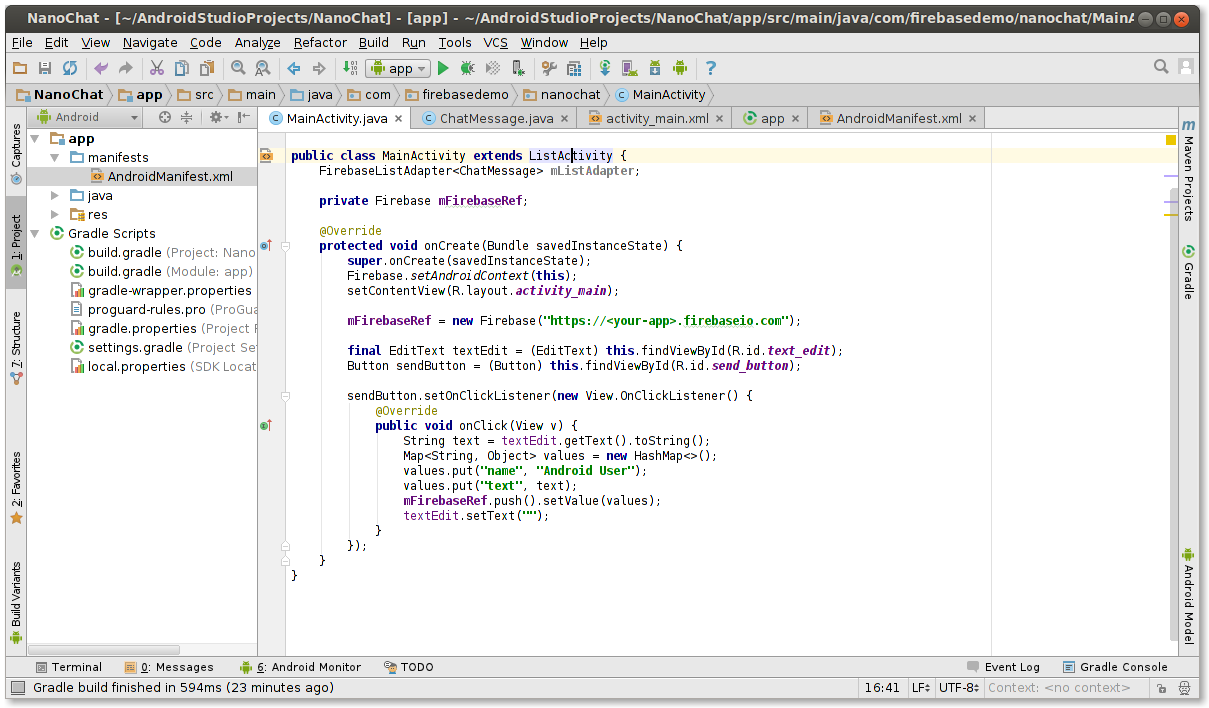
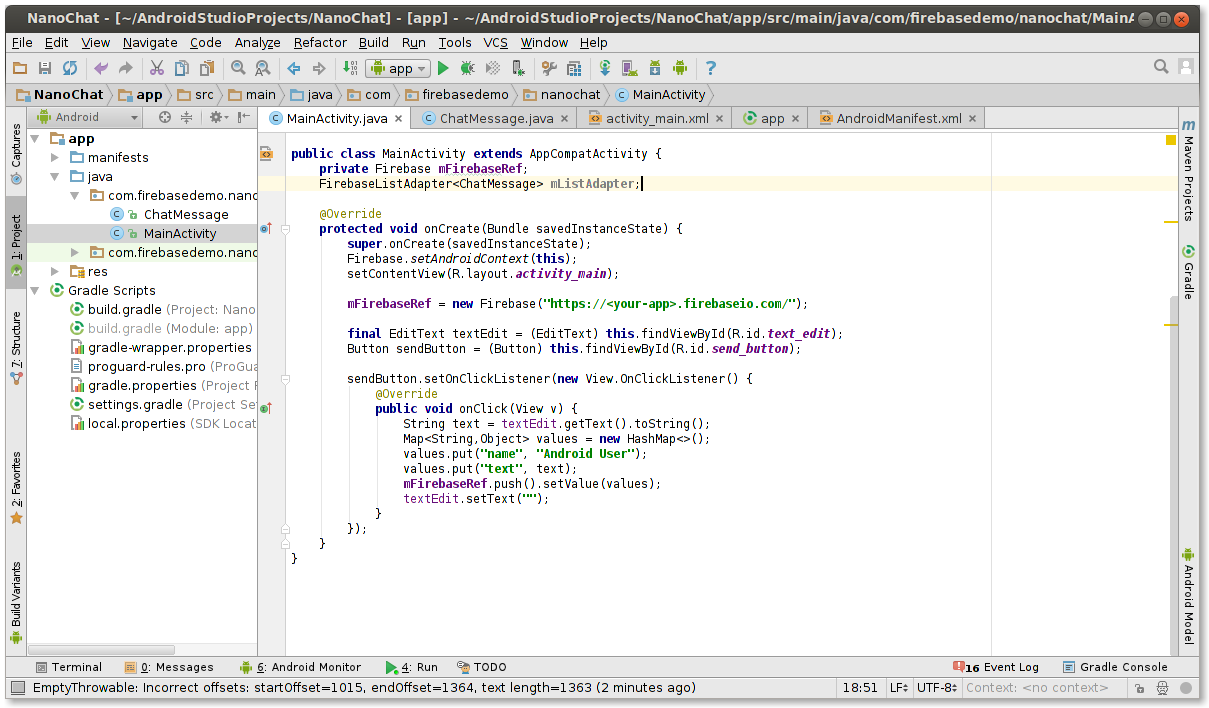
Codelab improvements

diff --git a/codelabs/chat/README.md b/codelabs/chat/README.md
@@ -2,8 +2,8 @@
 
 In this code lab you'll build a chat application for Android using Firebase and Android Studio.
 
-![Chat login](images/0_0.png)
-![Chat messages](images/0_1.png)
+<img alt="Chat login" src="images/0_0.png" height="600">
+<img alt="Chat messages" src="images/0_1.png" height="600">
 
 What you'll learn:
 
@@ -271,7 +271,7 @@ Warning: if you end up making this `ChatMessage` an inner class of another class
 
 With the layout for the message specified and their structure defined in a class, we need to make a space for them in the `main_activity.xml`
 
-Add a ListView with `android:id="@android:id/list"`` above the LinearLayout:
+Add a ListView with `android:id="@android:id/list"` above the LinearLayout:
 
 ```xml
 <ListView
@@ -285,18 +285,12 @@ This is the container that all messages will be added to: one message_layout for
 
 ![activity_main.xml with ListView](images/5_4.png)
 
-The `id` value is very important here, since Android's `ListActivity` uses it to find the `ListView`. So make sure to enter it exactly as specified: ``@android:id/list`.
-
-Make the `MainActivity` class descend from `ListActivity`. This is a built-in Android base-class. By deriving from this, our activity will automatically have access to the ListView we added to the layout:
-
-```java
-public class MainActivity extends ListActivity {
-```
+The `id` value is very important here, since we'll use it to look up this list before we populate it with items.
 
 We're ready to start on our ListAdapter, which we'll base on the `FirebaseListAdapter` from the firebase-ui project we imported. `The FirebaseListAdapter` class adapts a Firebase collection so that it becomes usable in an Android `ListView`. First we'll add a member to our `MainActivity`:
 
 ```java
-public class MainActivity extends ListActivity {
+public class MainActivity extends AppCompatActivity {
     private Firebase mFirebaseRef;
     FirebaseListAdapter<ChatMessage> mListAdapter;
 ```
@@ -306,6 +300,7 @@ public class MainActivity extends ListActivity {
 To make everything come together, we add this to the onCreate method of our MainActivity:
 
 ```java
+final ListView listView = (ListView) this.findViewById(android.R.id.list);
 mListAdapter = new FirebaseListAdapter<ChatMessage>(this, ChatMessage.class,
         android.R.layout.two_line_list_item, mFirebaseRef) {
     @Override
@@ -314,7 +309,7 @@ mListAdapter = new FirebaseListAdapter<ChatMessage>(this, ChatMessage.class,
         ((TextView)v.findViewById(android.R.id.text2)).setText(model.getText());
     }
 };
-setListAdapter(mListAdapter);
+listView.setAdapter(mListAdapter);
 ```
 
 The FirebaseListAdapter maps the data from your Firebase database into the ListView that you added to the layout. It creates a new instance of your `two_line_list_item` for each `ChatMessage` and calls the `populateView` method. We override this method and put the name and text in the correct subviews.
@@ -462,7 +457,7 @@ Wrap-up
 
 Congratulations! You've just built a fully functional multi-user chat application that uses Firebase to store the data and authentication users.
 
-![Chat app with login](images/0_0.png)
+<img alt="Chat login" src="images/0_0.png" height="600">
 
 As a reward for finishing the codelab you’ve earned a promo code! When you’re ready to put your Firebase app in production, you can use the promo code `androidcodelab49` for $49 off your first month of a paid Firebase plan. Just enter the code when you upgrade your Firebase.
 
